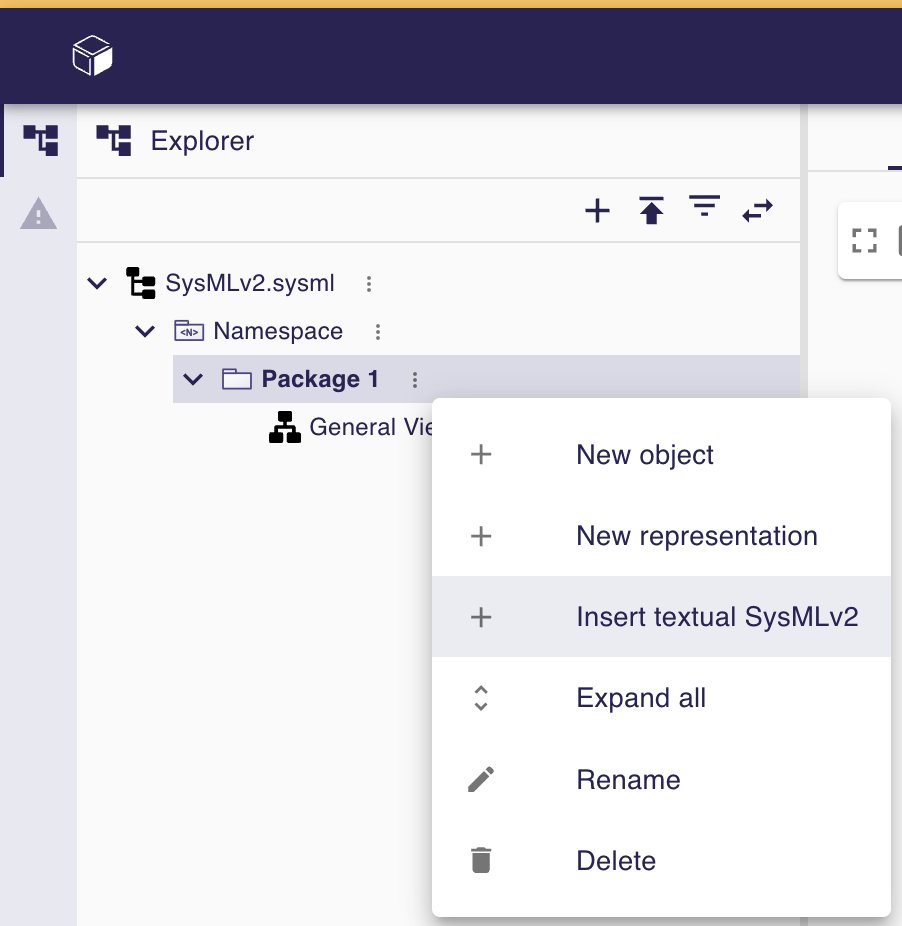
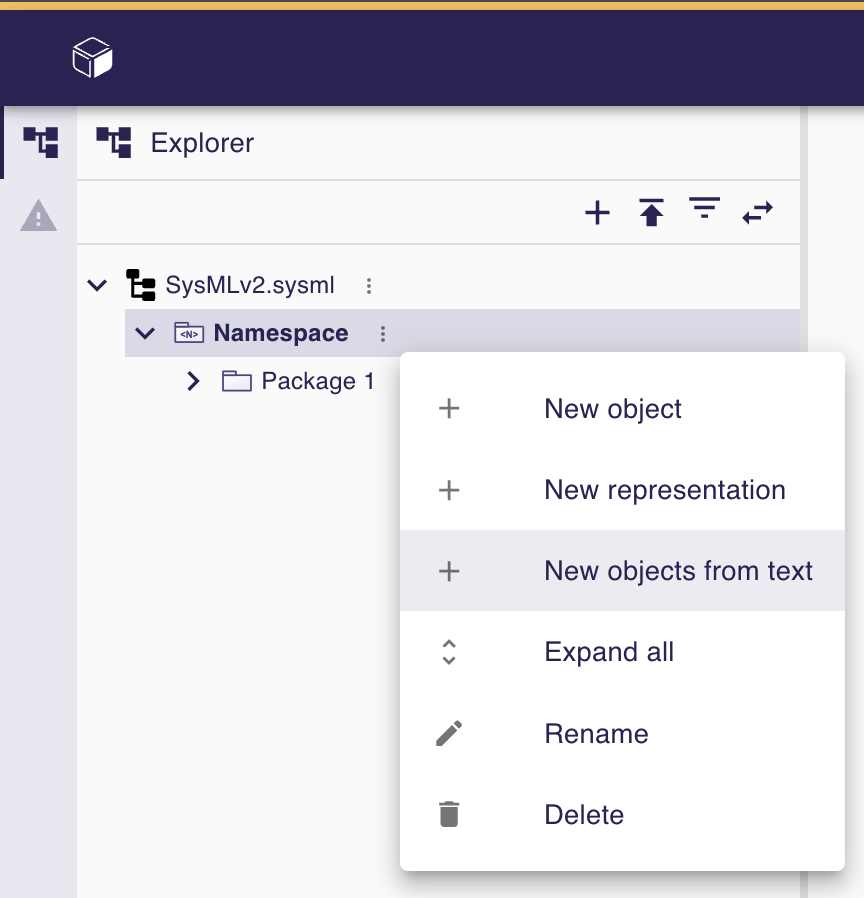
[626] Update action name for insert textual SysMLv2 action
Bug: https://github.com/eclipse-syson/syson/issues/626

diff --git a/integration-tests/cypress/e2e/project/explorer/insertTextualSysMLv2Tests.cy.ts b/integration-tests/cypress/e2e/project/explorer/insertTextualSysMLv2Tests.cy.ts
@@ -13,6 +13,7 @@
 
 import { Project } from '../../../pages/Project';
 import { SysMLv2 } from '../../../usecases/SysMLv2';
+import { Details } from '../../../workbench/Details';
 import { Explorer } from '../../../workbench/Explorer';
 
 describe('Insert Textual SysMLv2 Menu Tests', () => {
@@ -20,6 +21,7 @@ describe('Insert Textual SysMLv2 Menu Tests', () => {
 
   context('Given an empty SysMLv2 project', () => {
     const explorer = new Explorer();
+    const details = new Details();
     let projectId: string = '';
     beforeEach(() =>
       sysmlv2.createSysMLv2Project().then((createdProjectData) => {
@@ -35,20 +37,35 @@ describe('Insert Textual SysMLv2 Menu Tests', () => {
     afterEach(() => cy.deleteProject(projectId));
 
     context('When we selected a Package in the explorer', () => {
-      it('Then we can perform the Insert textual SysMLv2 menu entry', () => {
+      it("Then we can perform the 'New objects from text' menu entry", () => {
         explorer.insertTextualSysMLv2(sysmlv2.getRootElementLabel(), 'attribute myAttribute');
         cy.getByTestId('insert-textual-sysmlv2-modal').should('not.exist');
         explorer.getExplorerView().contains('myAttribute');
       });
 
-      it('Then we can perform the Insert textual SysMLv2 menu entry with not valid textual sysml', () => {
+      it("Then we can perform the 'New objects from text' menu entry and it will references elements from standard libraries (with appropriate imports)", () => {
+        explorer.insertTextualSysMLv2(
+          sysmlv2.getRootElementLabel(),
+          'import ScalarValues::*; attribute myAttribute : String;'
+        );
+        cy.getByTestId('insert-textual-sysmlv2-modal').should('not.exist');
+        explorer.getExplorerView().contains('myAttribute');
+        explorer.expand('myAttribute');
+        explorer.getExplorerView().contains('FeatureTyping');
+        explorer.select('myAttribute');
+        details.getGroup('Attribute Properties').should('be.visible');
+        details.getReferenceWidget('Typed by').should('exist');
+        details.getReferenceWidgetSelectedValue('Typed by', 'String').should('exist');
+      });
+
+      it("Then we can perform the 'New objects from text' menu entry with not valid textual sysml", () => {
         explorer.insertTextualSysMLv2(sysmlv2.getRootElementLabel(), '£$$`:=;');
         cy.getByTestId('insert-textual-sysmlv2-modal').should('exist');
       });
     });
 
     context('When we selected a Document in the explorer', () => {
-      it("Then we can't perform the Insert textual SysMLv2 menu entry", () => {
+      it("Then we can't perform the 'New objects from text' menu entry", () => {
         explorer.getTreeItemByLabel(sysmlv2.getProjectLabel()).find('button').click();
         cy.getByTestId('insert-textual-sysmlv2-menu').should('not.exist');
       });

diff --git a/frontend/syson-components/src/extensions/InsertTextualSysMLv2Modal.tsx b/frontend/syson-components/src/extensions/InsertTextualSysMLv2Modal.tsx
@@ -36,6 +36,10 @@ const useInsertTextualSysMLv2ModalStyles = makeStyles((theme: Theme) => ({
   textarea: {
     flexGrow: 1,
   },
+  actions: {
+    marginRight: theme.spacing(2),
+    marginBottom: theme.spacing(1),
+  },
 }));
 
 export const InsertTextualSysMLv2Modal = ({
@@ -75,7 +79,7 @@ export const InsertTextualSysMLv2Modal = ({
         maxWidth="md"
         fullWidth
         data-testid={'insert-textual-sysmlv2-modal'}>
-        <DialogTitle id="dialog-title">Insert textual SysMLv2</DialogTitle>
+        <DialogTitle id="dialog-title">Enter or paste SysMLv2 text to create new objects in the model</DialogTitle>
         <DialogContent>
           <div className={classes.form}>
             <TextField
@@ -87,12 +91,11 @@ export const InsertTextualSysMLv2Modal = ({
               minRows={40}
               maxRows={40}
               variant="outlined"
-              label="Write or paste textual SysMLv2 here"
               onChange={(event) => setState((prevState) => ({ ...prevState, textualContent: event.target.value }))}
             />
           </div>
         </DialogContent>
-        <DialogActions>
+        <DialogActions className={classes.actions}>
           <Button
             variant="contained"
             disabled={loading || state.textualContent.length === 0 || !!textualSysMLv2Inserted}
@@ -106,7 +109,7 @@ export const InsertTextualSysMLv2Modal = ({
                 <PublishIcon />
               )
             }>
-            Insert
+            Create Objects
           </Button>
         </DialogActions>
       </Dialog>

diff --git a/frontend/syson-components/src/extensions/InsertTextualSysMLv2MenuContribution.tsx b/frontend/syson-components/src/extensions/InsertTextualSysMLv2MenuContribution.tsx
@@ -59,7 +59,7 @@ export const InsertTextualSysMLMenuContribution = forwardRef(
           <ListItemIcon>
             <AddIcon fontSize="small" />
           </ListItemIcon>
-          <ListItemText primary="Insert textual SysMLv2" />
+          <ListItemText primary="New objects from text" />
         </MenuItem>
         {modalElement}
       </Fragment>

diff --git a/backend/application/syson-sysml-import/src/test/java/org/eclipse/syson/sysml/ASTTransformerTest.java b/backend/application/syson-sysml-import/src/test/java/org/eclipse/syson/sysml/ASTTransformerTest.java
@@ -13,6 +13,7 @@
 package org.eclipse.syson.sysml;
 
 import static org.junit.Assert.assertEquals;
+import static org.junit.Assert.assertNull;
 import static org.junit.jupiter.api.Assertions.assertInstanceOf;
 import static org.junit.jupiter.api.Assertions.assertNotNull;
 import static org.junit.jupiter.api.Assertions.fail;
@@ -29,7 +30,7 @@ import org.junit.jupiter.api.Test;
 
 /**
  * Test of ASTTransformer class.
- * 
+ *
  * @author gescande
  */
 public class ASTTransformerTest {
@@ -41,7 +42,7 @@ public class ASTTransformerTest {
 
         Resource result = transformer.convertResource(null, new ResourceSetImpl());
 
-        assertEquals(false, result.getAllContents().hasNext());
+        assertNull(result);
     }
 
     @DisplayName("Test empty string")
@@ -140,7 +141,7 @@ public class ASTTransformerTest {
 
         Resource testResource = null;
         try {
-            String fileContent = new String(getClass().getClassLoader().getResourceAsStream("ASTTransformerTest/convertFeatureTypingTest/model.ast.json").readAllBytes());
+            String fileContent = new String(this.getClass().getClassLoader().getResourceAsStream("ASTTransformerTest/convertFeatureTypingTest/model.ast.json").readAllBytes());
             testResource = transformer.convertResource(new ByteArrayInputStream(fileContent.getBytes()), new ResourceSetImpl());
         } catch (IOException e) {
             fail(e);
@@ -187,7 +188,7 @@ public class ASTTransformerTest {
 
         Resource testResource = null;
         try {
-            String fileContent = new String(getClass().getClassLoader().getResourceAsStream("ASTTransformerTest/convertRedefinesTest/model.ast.json").readAllBytes());
+            String fileContent = new String(this.getClass().getClassLoader().getResourceAsStream("ASTTransformerTest/convertRedefinesTest/model.ast.json").readAllBytes());
             testResource = transformer.convertResource(new ByteArrayInputStream(fileContent.getBytes()), new ResourceSetImpl());
         } catch (IOException e) {
             fail(e);
@@ -226,7 +227,7 @@ public class ASTTransformerTest {
         // Import Namespace ScalarValues
         Resource namespaceResource = null;
         try {
-            String fileContent = new String(getClass().getClassLoader().getResourceAsStream("ASTTransformerTest/convertNamespaceImportTest/namespace.ast.json").readAllBytes());
+            String fileContent = new String(this.getClass().getClassLoader().getResourceAsStream("ASTTransformerTest/convertNamespaceImportTest/namespace.ast.json").readAllBytes());
             namespaceResource = transformer.convertResource(new ByteArrayInputStream(fileContent.getBytes()), resourceSet);
         } catch (IOException e) {
             fail(e);
@@ -234,7 +235,7 @@ public class ASTTransformerTest {
 
         Resource testResource = null;
         try {
-            String fileContent = new String(getClass().getClassLoader().getResourceAsStream("ASTTransformerTest/convertNamespaceImportTest/model.ast.json").readAllBytes());
+            String fileContent = new String(this.getClass().getClassLoader().getResourceAsStream("ASTTransformerTest/convertNamespaceImportTest/model.ast.json").readAllBytes());
             testResource = transformer.convertResource(new ByteArrayInputStream(fileContent.getBytes()), resourceSet);
         } catch (IOException e) {
             fail(e);
@@ -263,7 +264,7 @@ public class ASTTransformerTest {
 
         Resource testResource = null;
         try {
-            String fileContent = new String(getClass().getClassLoader().getResourceAsStream("ASTTransformerTest/convertConjugatedPortTest/model.ast.json").readAllBytes());
+            String fileContent = new String(this.getClass().getClassLoader().getResourceAsStream("ASTTransformerTest/convertConjugatedPortTest/model.ast.json").readAllBytes());
             testResource = transformer.convertResource(new ByteArrayInputStream(fileContent.getBytes()), new ResourceSetImpl());
         } catch (IOException e) {
             fail(e);
@@ -279,19 +280,19 @@ public class ASTTransformerTest {
 
         PortDefinition tempPortPortDefinition = (PortDefinition) packageObject.getMember().get(1);
         assertEquals("TempPort", tempPortPortDefinition.getName());
-        AttributeUsage temperatureAttributeUsage = (AttributeUsage) tempPortPortDefinition.getOwnedAttribute().get(0);
+        AttributeUsage temperatureAttributeUsage = tempPortPortDefinition.getOwnedAttribute().get(0);
         assertEquals("temperature", temperatureAttributeUsage.getName());
         assertEquals(tempAttributeDefinition, temperatureAttributeUsage.getOwnedSpecialization().get(0).getGeneral());
 
         PartDefinition tempPortClassicPartDefinition = (PartDefinition) packageObject.getMember().get(2);
         assertEquals("TempPortClassic", tempPortClassicPartDefinition.getName());
-        PortUsage tempPortClassicPortUsage = (PortUsage) tempPortClassicPartDefinition.getOwnedPort().get(0);
+        PortUsage tempPortClassicPortUsage = tempPortClassicPartDefinition.getOwnedPort().get(0);
         assertEquals("tempPortClassic", tempPortClassicPortUsage.getName());
         assertEquals(tempPortPortDefinition, tempPortClassicPortUsage.getOwnedSpecialization().get(0).getGeneral());
 
         PartDefinition tempPortConjPartDefinition = (PartDefinition) packageObject.getMember().get(3);
         assertEquals("TempPortConj", tempPortConjPartDefinition.getName());
-        PortUsage tempPortConjPortUsage = (PortUsage) tempPortConjPartDefinition.getOwnedPort().get(0);
+        PortUsage tempPortConjPortUsage = tempPortConjPartDefinition.getOwnedPort().get(0);
         assertEquals("tempPortConj", tempPortConjPortUsage.getName());
 
         assertEquals(1, tempPortConjPortUsage.getOwnedTyping().size());
@@ -304,7 +305,7 @@ public class ASTTransformerTest {
 
         Resource testResource = null;
         try {
-            String fileContent = new String(getClass().getClassLoader().getResourceAsStream("ASTTransformerTest/convertSubclassificationTest/model.ast.json").readAllBytes());
+            String fileContent = new String(this.getClass().getClassLoader().getResourceAsStream("ASTTransformerTest/convertSubclassificationTest/model.ast.json").readAllBytes());
             testResource = transformer.convertResource(new ByteArrayInputStream(fileContent.getBytes()), new ResourceSetImpl());
         } catch (IOException e) {
             fail(e);
@@ -317,12 +318,12 @@ public class ASTTransformerTest {
 
         PartDefinition part1Definition = (PartDefinition) packageObject.getMember().get(0);
         assertEquals("Part1", part1Definition.getName());
-        AttributeUsage attribute1AttributeUsage = (AttributeUsage) part1Definition.getOwnedAttribute().get(0);
+        AttributeUsage attribute1AttributeUsage = part1Definition.getOwnedAttribute().get(0);
         assertEquals("attribute1", attribute1AttributeUsage.getName());
 
         PartDefinition part2Definition = (PartDefinition) packageObject.getMember().get(1);
         assertEquals("Part2", part2Definition.getName());
-        AttributeUsage attribute2AttributeUsage = (AttributeUsage) part2Definition.getOwnedAttribute().get(0);
+        AttributeUsage attribute2AttributeUsage = part2Definition.getOwnedAttribute().get(0);
         assertEquals("attribute2", attribute2AttributeUsage.getName());
 
         assertEquals(1, part2Definition.getOwnedSubclassification().size());
@@ -338,7 +339,7 @@ public class ASTTransformerTest {
 
         Resource testResource = null;
         try {
-            String fileContent = new String(getClass().getClassLoader().getResourceAsStream("ASTTransformerTest/convertAliasTest/model.ast.json").readAllBytes());
+            String fileContent = new String(this.getClass().getClassLoader().getResourceAsStream("ASTTransformerTest/convertAliasTest/model.ast.json").readAllBytes());
             testResource = transformer.convertResource(new ByteArrayInputStream(fileContent.getBytes()), new ResourceSetImpl());
         } catch (IOException e) {
             fail(e);
@@ -354,7 +355,7 @@ public class ASTTransformerTest {
         PartDefinition vehiculePartDefinition = (PartDefinition) definitionsPackage.getOwnedElement().get(0);
         assertEquals("Vehicle", vehiculePartDefinition.getName());
 
-        Membership carMembership = (Membership) definitionsPackage.getOwnedMembership().get(1);
+        Membership carMembership = definitionsPackage.getOwnedMembership().get(1);
         assertEquals("Car", carMembership.getName());
         assertEquals(vehiculePartDefinition, carMembership.getMemberElement());
         assertEquals(definitionsPackage, carMembership.getOwningRelatedElement());
@@ -389,7 +390,7 @@ public class ASTTransformerTest {
         // Import Namespace ScalarValues
         Resource namespaceResource = null;
         try {
-            String fileContent = new String(getClass().getClassLoader().getResourceAsStream("ASTTransformerTest/convertNamespaceImportValueTest/namespace.ast.json").readAllBytes());
+            String fileContent = new String(this.getClass().getClassLoader().getResourceAsStream("ASTTransformerTest/convertNamespaceImportValueTest/namespace.ast.json").readAllBytes());
             namespaceResource = transformer.convertResource(new ByteArrayInputStream(fileContent.getBytes()), resourceSet);
         } catch (IOException e) {
             fail(e);
@@ -397,7 +398,7 @@ public class ASTTransformerTest {
 
         Resource testResource = null;
         try {
-            String fileContent = new String(getClass().getClassLoader().getResourceAsStream("ASTTransformerTest/convertNamespaceImportValueTest/model.ast.json").readAllBytes());
+            String fileContent = new String(this.getClass().getClassLoader().getResourceAsStream("ASTTransformerTest/convertNamespaceImportValueTest/model.ast.json").readAllBytes());
             testResource = transformer.convertResource(new ByteArrayInputStream(fileContent.getBytes()), resourceSet);
         } catch (IOException e) {
             fail(e);
@@ -433,7 +434,7 @@ public class ASTTransformerTest {
         // Import Namespace ScalarValues
         Resource namespaceResource = null;
         try {
-            String fileContent = new String(getClass().getClassLoader().getResourceAsStream("ASTTransformerTest/convertImportTest/model.ast.json").readAllBytes());
+            String fileContent = new String(this.getClass().getClassLoader().getResourceAsStream("ASTTransformerTest/convertImportTest/model.ast.json").readAllBytes());
             namespaceResource = transformer.convertResource(new ByteArrayInputStream(fileContent.getBytes()), new ResourceSetImpl());
         } catch (IOException e) {
             fail(e);
@@ -494,7 +495,7 @@ public class ASTTransformerTest {
         // Import Namespace ScalarValues
         Resource namespaceResource = null;
         try {
-            String fileContent = new String(getClass().getClassLoader().getResourceAsStream("ASTTransformerTest/convertAssignmentTest/assignment1.ast.json").readAllBytes());
+            String fileContent = new String(this.getClass().getClassLoader().getResourceAsStream("ASTTransformerTest/convertAssignmentTest/assignment1.ast.json").readAllBytes());
             namespaceResource = transformer.convertResource(new ByteArrayInputStream(fileContent.getBytes()), new ResourceSetImpl());
         } catch (IOException e) {
             fail(e);
@@ -534,7 +535,7 @@ public class ASTTransformerTest {
         // Import Namespace ScalarValues
         Resource namespaceResource = null;
         try {
-            String fileContent = new String(getClass().getClassLoader().getResourceAsStream("ASTTransformerTest/convertAssignmentTest/assignment2.ast.json").readAllBytes());
+            String fileContent = new String(this.getClass().getClassLoader().getResourceAsStream("ASTTransformerTest/convertAssignmentTest/assignment2.ast.json").readAllBytes());
             namespaceResource = transformer.convertResource(new ByteArrayInputStream(fileContent.getBytes()), new ResourceSetImpl());
         } catch (IOException e) {
             fail(e);
